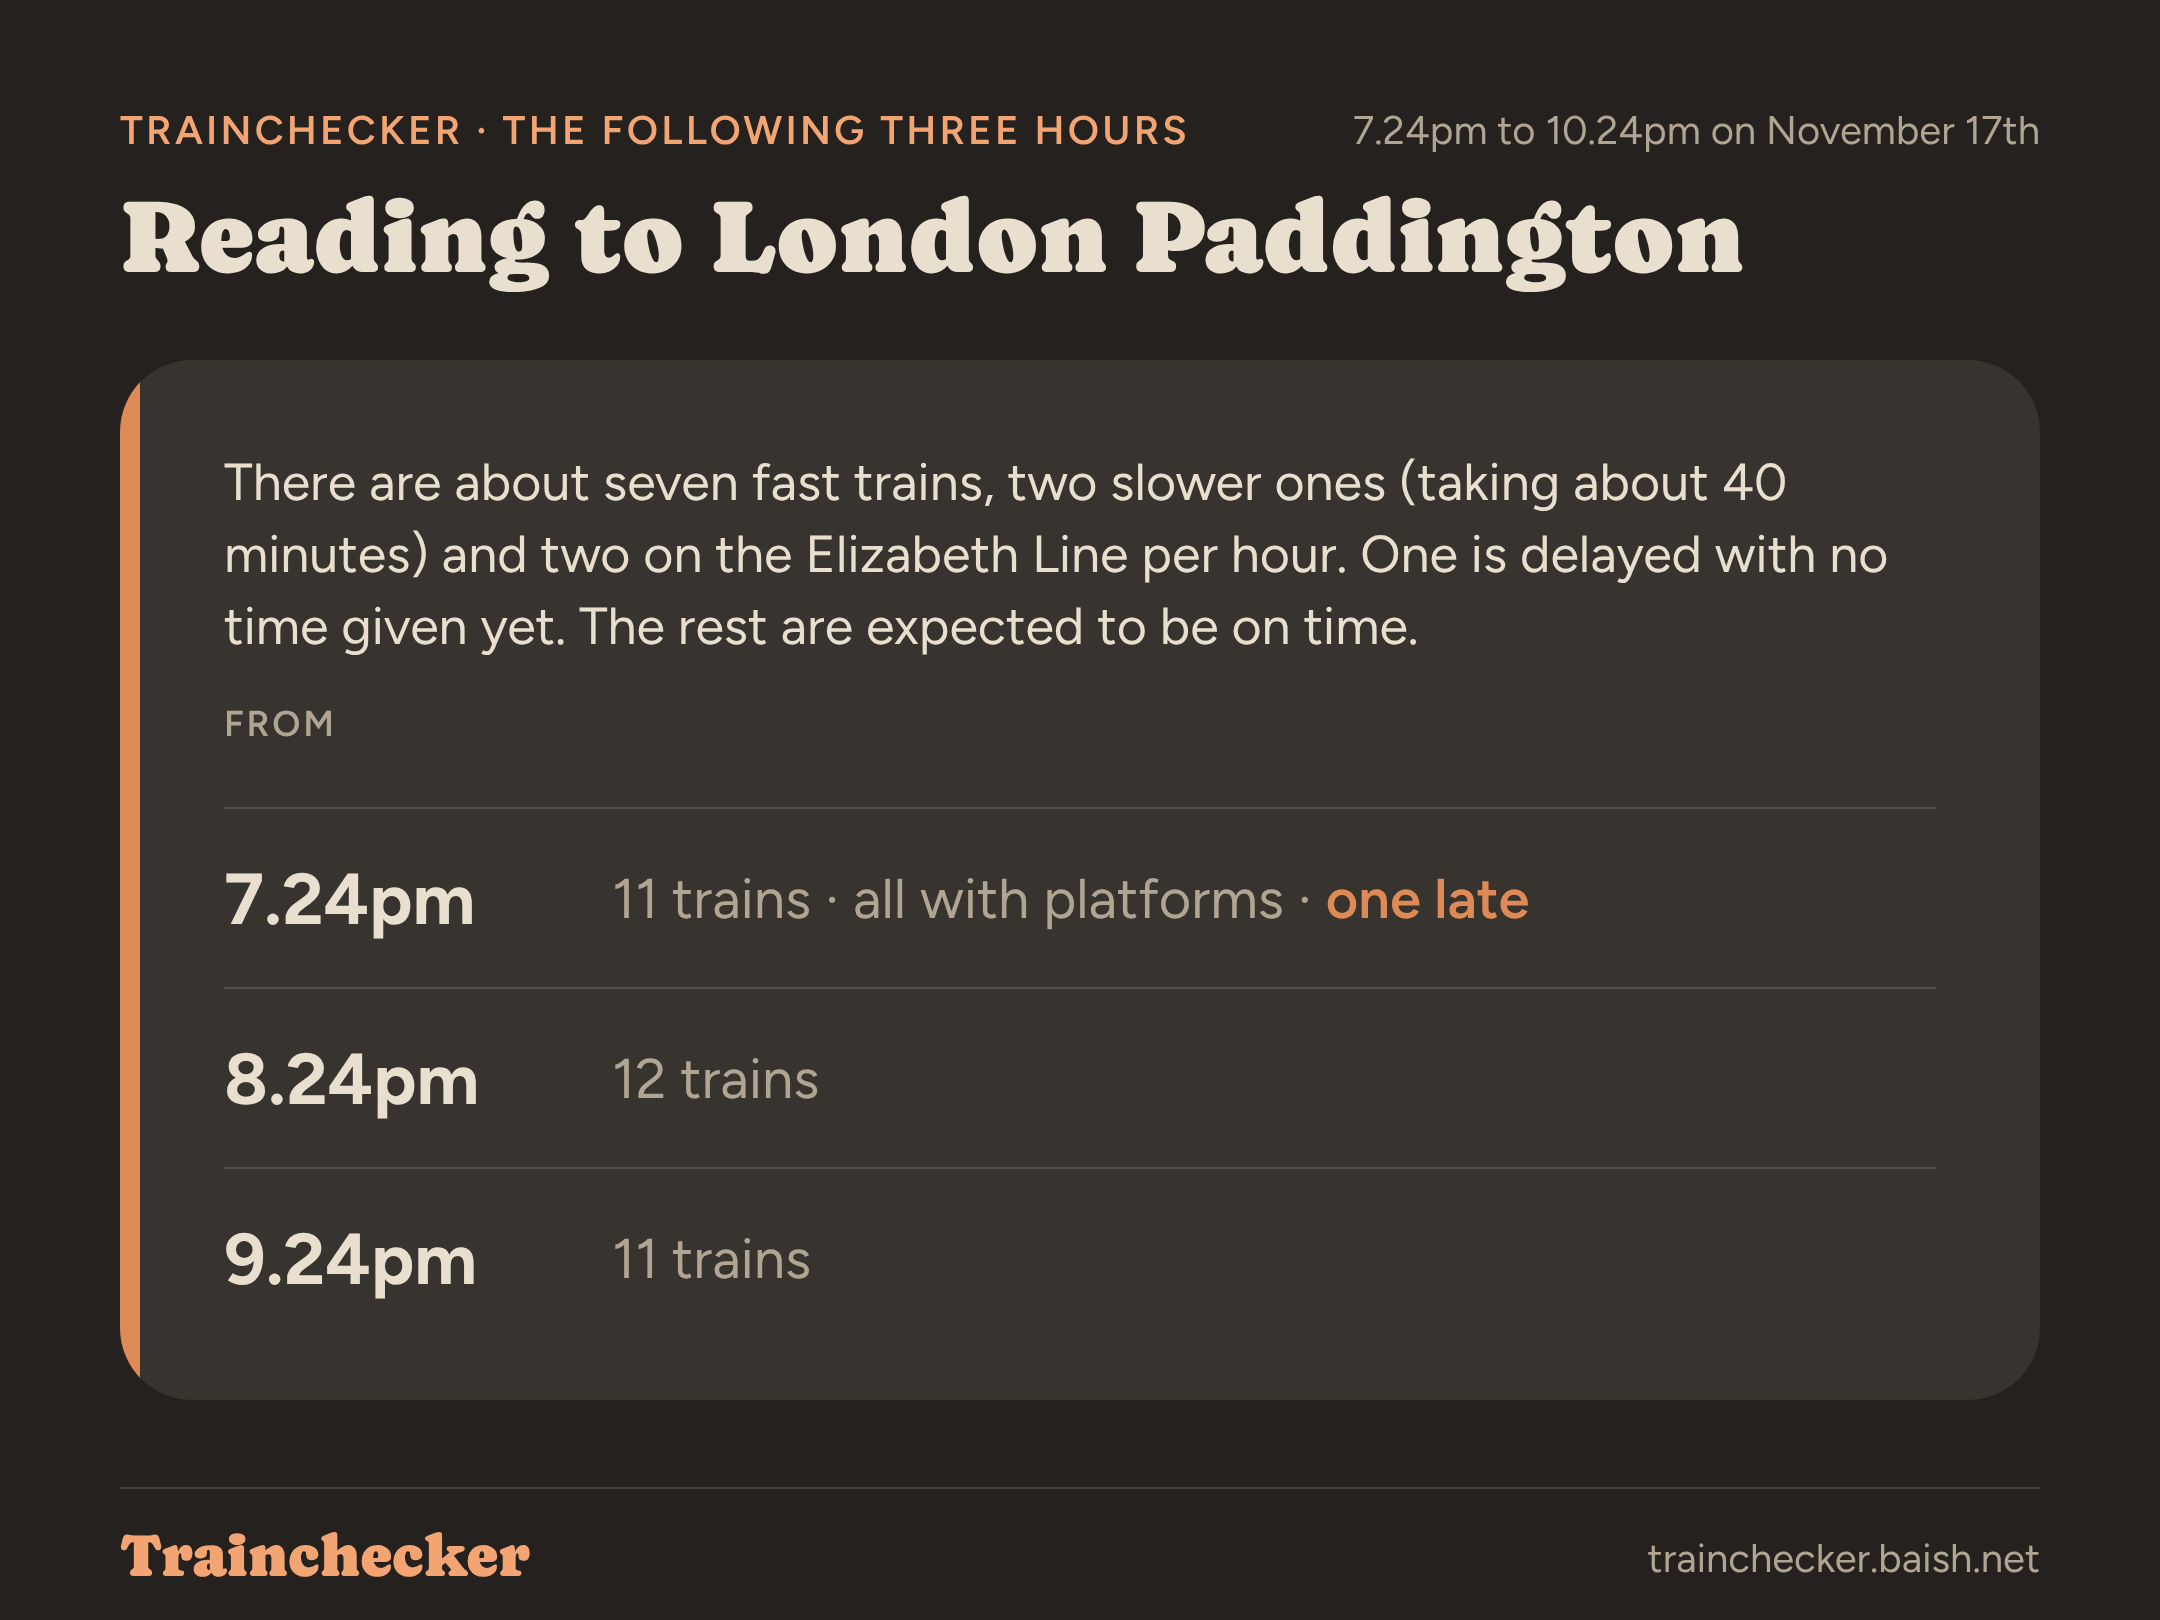
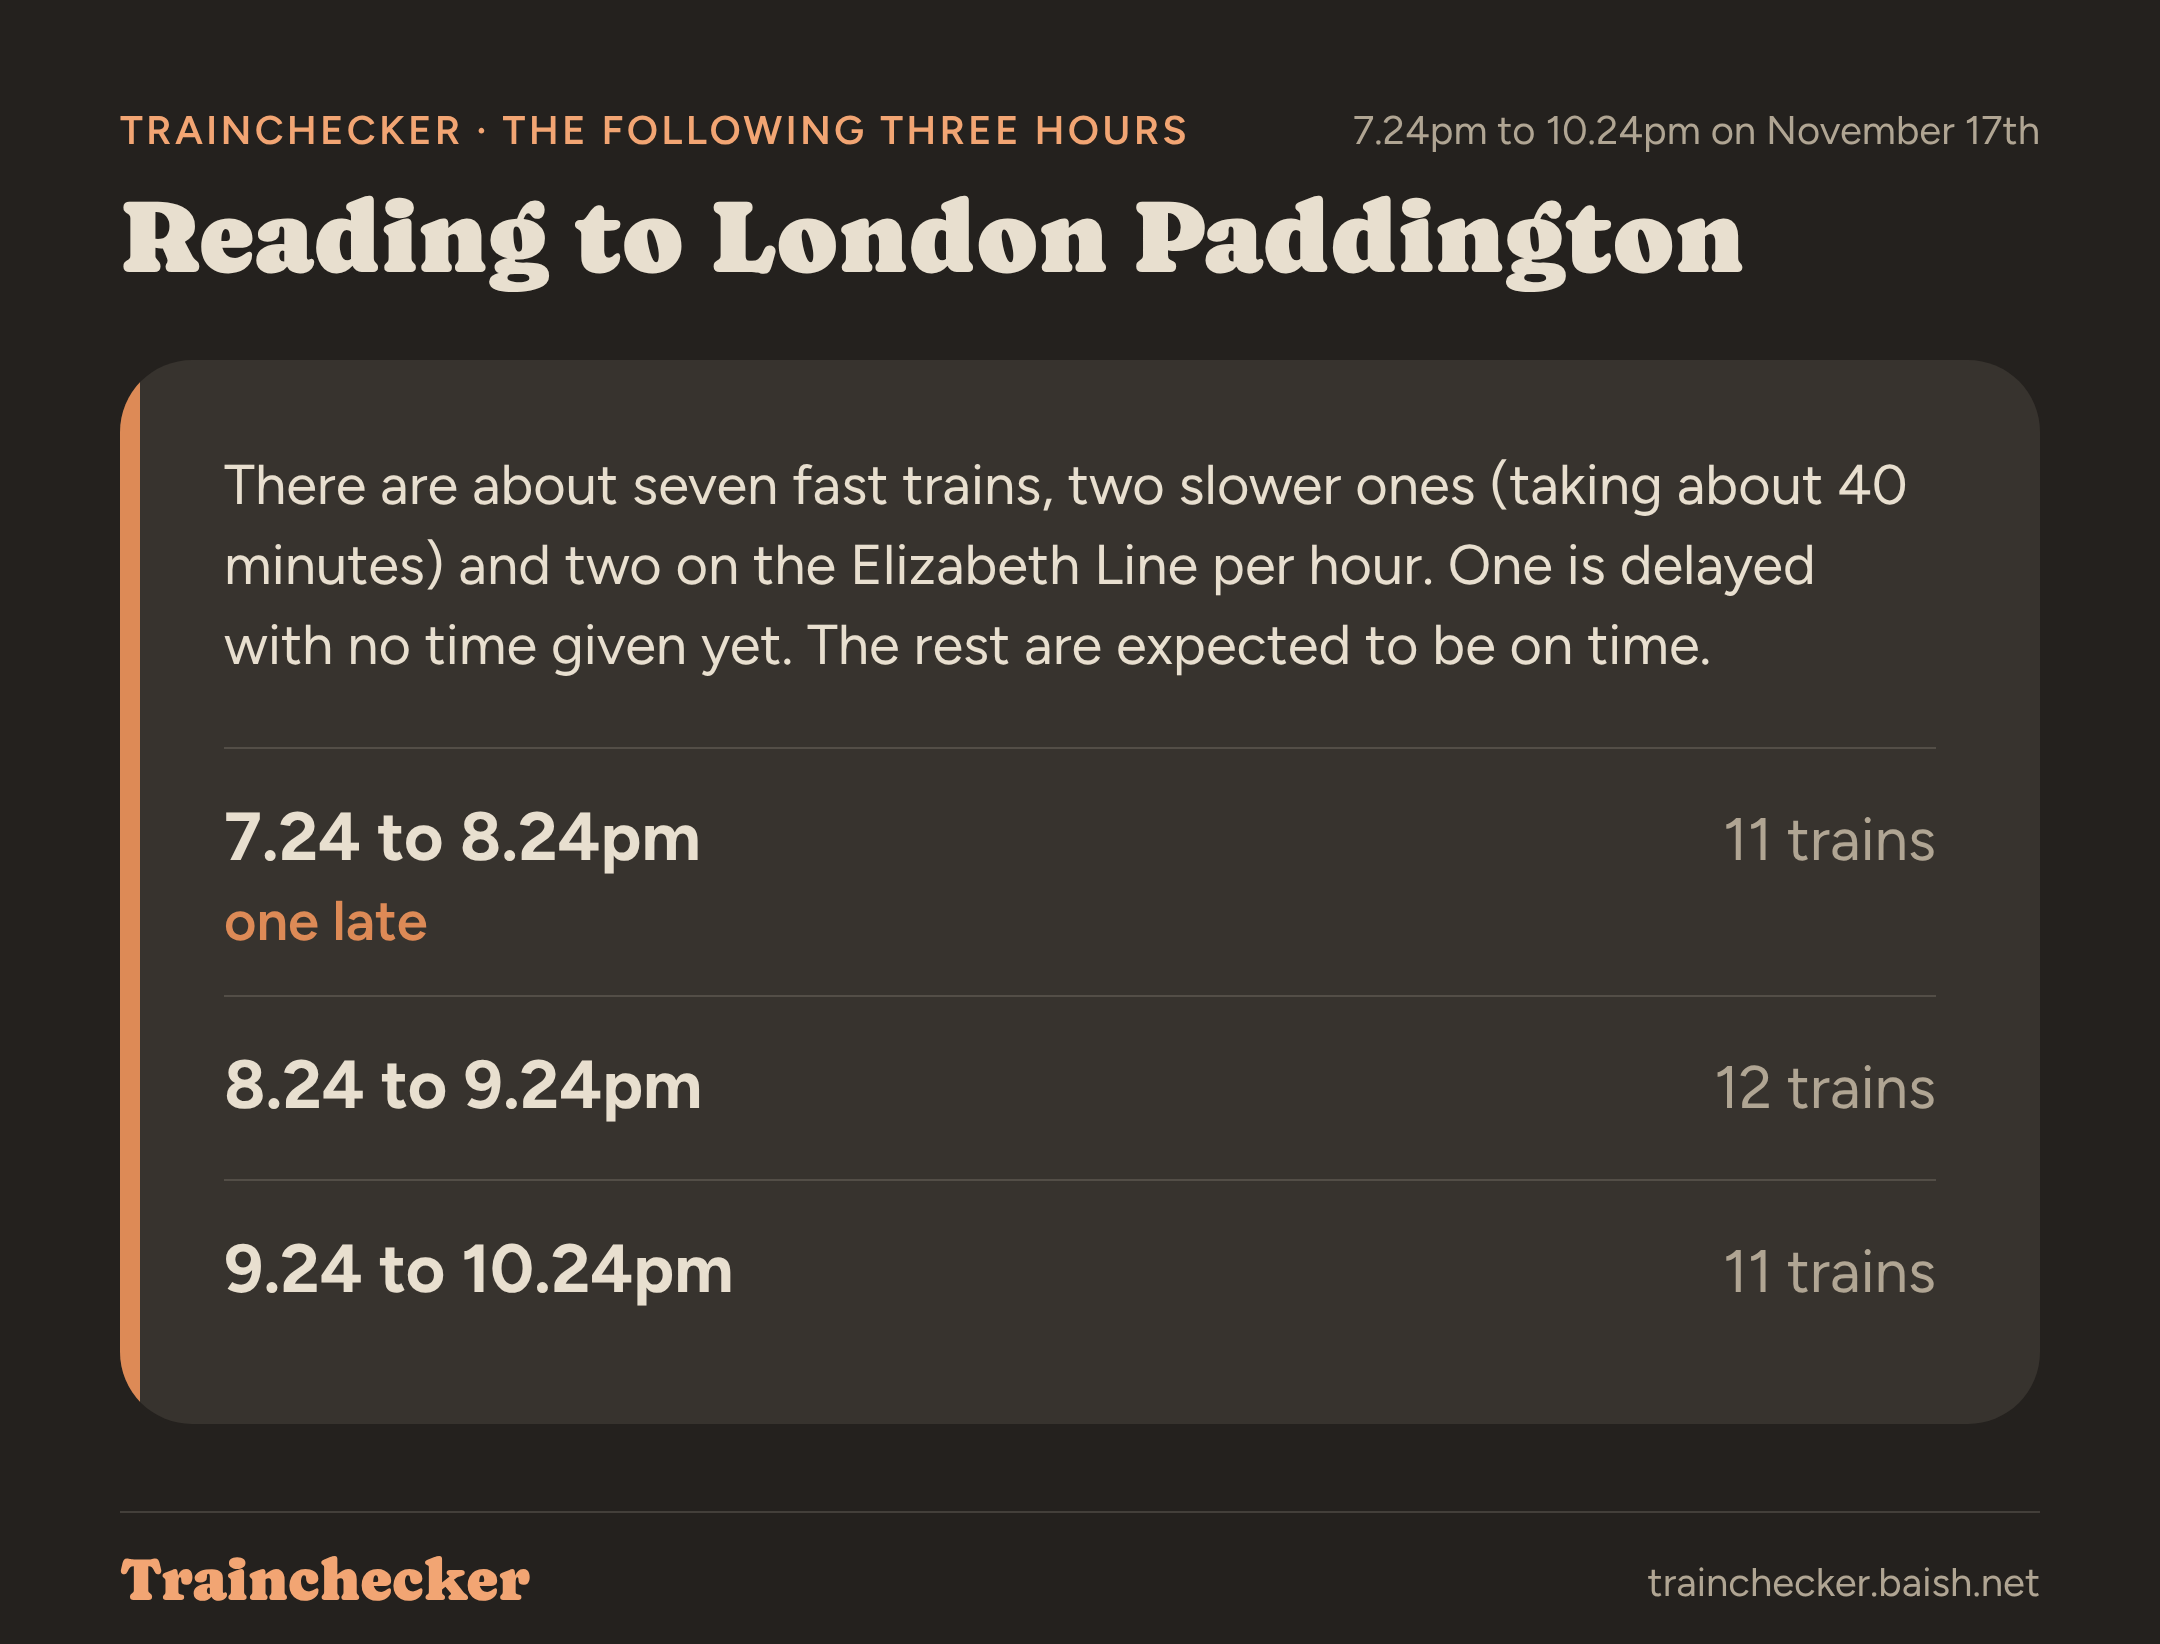
Share mock-ups: the hour-by-hour picture with time ranges, the count on the right, no platforms
Claude-Session: https://claude.ai/code/session_01BsvHLH7nmuoQ4vvwafY9bf

diff --git a/src/lib/share.ts b/src/lib/share.ts
@@ -208,6 +208,7 @@ function fitFont(ctx: CanvasRenderingContext2D, text: string, weight: number, si
 }
 
 export function listImage(p: ListPicture): HTMLCanvasElement {
+  if (p.layout === 'hours') return hoursImage(p)
   const LW = 1080, scale = 2, pad = 60, inner = 52
   const canvas = document.createElement('canvas')
   const probe = canvas.getContext('2d')!
@@ -356,6 +357,80 @@ export function listImage(p: ListPicture): HTMLCanvasElement {
     note.forEach((l, i) => ctx.fillText(l, x0, top + 24 + i * 34))
   }
 
+  ctx.strokeStyle = D.rule
+  ctx.beginPath(); ctx.moveTo(pad, y1 + 44); ctx.lineTo(LW - pad, y1 + 44); ctx.stroke()
+  ctx.fillStyle = D.kicker
+  ctx.font = `30px ${CAP}`
+  ctx.fillText('Trainchecker', pad, y1 + 88)
+  ctx.fillStyle = D.muted
+  ctx.font = `20px ${FIG}`
+  ctx.textAlign = 'right'
+  ctx.fillText('trainchecker.baish.net', LW - pad, y1 + 86)
+  ctx.textAlign = 'left'
+  return canvas
+}
+
+/** The later panel hour by hour (option C, DRAFT, November 24th 2026): the panel's sentence, then a row
+ *  per hour: "7.24 to 8.24pm" on the left, "11 trains" on the right, and under them, in orange, any
+ *  that aren't on time ("one cancelled, one late"). */
+function hoursImage(p: ListPicture): HTMLCanvasElement {
+  const LW = 1080, scale = 2, pad = 60, inner = 52
+  const canvas = document.createElement('canvas')
+  const probe = canvas.getContext('2d')!
+  probe.font = `52px ${CAP}`
+  const title = wrap(probe, p.title, LW - pad * 2)
+  const x0 = pad + inner, x1 = LW - pad - inner
+  probe.font = `28px ${FIG}`
+  const lead = p.before ? wrap(probe, p.before, x1 - x0) : []
+  const leadH = lead.length ? lead.length * 40 + 30 : 0
+  const titleTop = 100, titleLh = 60
+  const bandTop = titleTop + title.length * titleLh + 20
+  const rowHs = p.rows.map((r) => (r.late ? 124 : 92))
+  const rowsH = rowHs.reduce((a, b) => a + b, 0)
+  const bandH = 44 + leadH + rowsH + 30
+  const H = bandTop + bandH + 110
+  canvas.width = LW * scale
+  canvas.height = H * scale
+  const ctx = canvas.getContext('2d')!
+  ctx.scale(scale, scale)
+  ctx.fillStyle = D.bg
+  ctx.fillRect(0, 0, LW, H)
+  ctx.fillStyle = D.kicker
+  ctx.font = `600 20px ${FIG}`
+  spaced(ctx, '1.6px')
+  ctx.fillText(p.kicker, pad, 72)
+  spaced(ctx, '0px')
+  ctx.fillStyle = D.muted
+  ctx.font = `20px ${FIG}`
+  ctx.textAlign = 'right'
+  ctx.fillText(p.when, LW - pad, 72)
+  ctx.textAlign = 'left'
+  ctx.fillStyle = D.text
+  ctx.font = `52px ${CAP}`
+  title.forEach((l, i) => ctx.fillText(l, pad, titleTop + 36 + i * titleLh))
+  const y0 = bandTop, y1 = bandTop + bandH
+  ctx.save()
+  ctx.beginPath(); ctx.roundRect(pad, y0, LW - pad * 2, bandH, 36); ctx.clip()
+  ctx.fillStyle = D.band; ctx.fillRect(pad, y0, LW - pad * 2, bandH)
+  ctx.fillStyle = D.accent; ctx.fillRect(pad, y0, 10, bandH)
+  ctx.restore()
+  let y = y0 + 44
+  ctx.fillStyle = D.text
+  ctx.font = `28px ${FIG}`
+  lead.forEach((l, i) => ctx.fillText(l, x0, y + 28 + i * 40))
+  y += leadH
+  p.rows.forEach((r, i) => {
+    const h = rowHs[i]
+    ctx.strokeStyle = D.rule; ctx.lineWidth = 1
+    ctx.beginPath(); ctx.moveTo(x0, y); ctx.lineTo(x1, y); ctx.stroke()
+    const mid = y + 56
+    ctx.fillStyle = D.text; ctx.font = `700 34px ${FIG}`
+    ctx.fillText(r.time, x0, mid)
+    ctx.fillStyle = D.muted; ctx.font = `30px ${FIG}`; ctx.textAlign = 'right'
+    ctx.fillText(r.mid, x1, mid); ctx.textAlign = 'left'
+    if (r.late) { ctx.fillStyle = D.accent; ctx.font = `600 28px ${FIG}`; ctx.fillText(r.late, x0, mid + 40) }
+    y += h
+  })
   ctx.strokeStyle = D.rule
   ctx.beginPath(); ctx.moveTo(pad, y1 + 44); ctx.lineTo(LW - pad, y1 + 44); ctx.stroke()
   ctx.fillStyle = D.kicker

diff --git a/src/lib/windows.ts b/src/lib/windows.ts
@@ -172,18 +172,21 @@ export function laterShare(a: Analysis, kind: LaterShareKind, s = split(a)): Lis
       : `The trains from ${a.from} to ${a.to} ${period}${s.stretched ? ',' : ''} were all expected to be on time, according to Trainchecker.`
     return { ...base, heads: ['DUE TO LEAVE', ''], rows, before: lp.lines.join(' '), words: words(text, a) }
   }
-  // C: hour by hour.
+  // C: hour by hour (John: no platforms said, a time range rather than "FROM").
   const start = s.stretched ? s.cut : 60
   const rows: PicRow[] = []
+  const range = (f: number, t: number) => {
+    const a1 = t12(plus(a.now, f)), a2 = t12(plus(a.now, t))
+    const m1 = a1.match(/^(.*?)(am|pm)$/), m2 = a2.match(/(am|pm)$/)
+    return `${m1 && m2 && m1[2] === m2[1] && /\./.test(a1) ? m1[1] : a1} to ${a2}`
+  }
   for (let from = start; from < 240; from += 60) {
     const to = Math.min(from + 60, 240)
     const ts = l.ahead.filter((t) => { const m = leaves(a, t); return m > from && m <= to })
-    if (!ts.length) continue
-    const run = ts.filter((t) => !t.cancelled), withP = run.filter((t) => t.platform).length
     const c = ts.filter((t) => t.cancelled).length, late = ts.filter((t) => l.late5.includes(t) || l.arrLate.includes(t) || t.unknown).length
     const bad = [c ? `${num(c)} cancelled` : '', late ? `${num(late)} late` : ''].filter(Boolean).join(', ')
-    rows.push({ time: t12(plus(a.now, from)), mid: `${num(ts.length)} ${trainsWord(ts.length)}${withP ? ` · ${withP === run.length ? 'all with platforms' : `${num(withP)} with platforms`}` : ''}`, late: bad || '' })
+    rows.push({ time: range(from, to), mid: ts.length ? `${num(ts.length)} ${trainsWord(ts.length)}` : 'no trains', late: bad })
   }
   const text = s.stretched ? `The later trains from ${a.from} to ${a.to} hour by hour, ${when}, from Trainchecker.` : `The trains from ${a.from} to ${a.to} hour by hour from ${when}, from Trainchecker.`
-  return { ...base, heads: ['FROM', ''], rows, before: lp.lines.join(' '), words: words(text, a) }
+  return { ...base, heads: ['', ''], rows, before: lp.lines.join(' '), layout: 'hours', words: words(text, a) }
 }

diff --git a/src/lib/sentences.ts b/src/lib/sentences.ts
@@ -867,6 +867,8 @@ export type ListPicture = {
   one: string | null; rows: PicRow[]; note: string | null; words: { text: string; title: string; hash: string }
   /** A line above the rows: earlier trains with no platform yet (John, November 22nd 2026). */
   before?: string | null
+  /** "hours": the later panel's hour-by-hour picture (option C, November 24th 2026). */
+  layout?: 'hours'
 }
 // Platforms: "was due to go at 1.42" (the heading says "Expected to leave", so it's plainly late; it
 // fits on one line beside the badge on a 390px phone); arrivals: "running 15 minutes late", the train

diff --git a/CLAUDE.md b/CLAUDE.md
@@ -83,6 +83,11 @@ given its own branch). Before committing there, run
   train (Reading to Paddington: 34 rows, a very long picture); B the panel's sentence and only the trains not on time,
   each with its reason; C hour by hour. Pictures in `design/previews/next-hour/share/` (`share-pics.mjs` reads them back
   from the clipboard). Checks unchanged; `tsc -b`, lint, build; fonts loaded, no errors.
+- **John:** C, but "FROM" isn't obvious, the line has room for another layout, and no "with platforms" that far ahead.
+  Now `hoursImage()` in `share.ts` (`ListPicture.layout: 'hours'`): no header; each row "7.24 to 8.24pm" on the left,
+  "seven trains" on the right, and under them in orange "three cancelled, one late"; an hour with none, "no trains".
+  Checks unchanged; `tsc -b`, lint, build; Manchester, Reading to Paddington, Kings Cross to York (stretched) and
+  Euston to Milton Keynes read back from the clipboard, fonts loaded, no errors.
 
 ### November 24th 2026: "The next hour" first, then the rest; live (branch `claude/ecstatic-dijkstra-w0herd`, merged the same day; Claude Code)
 
